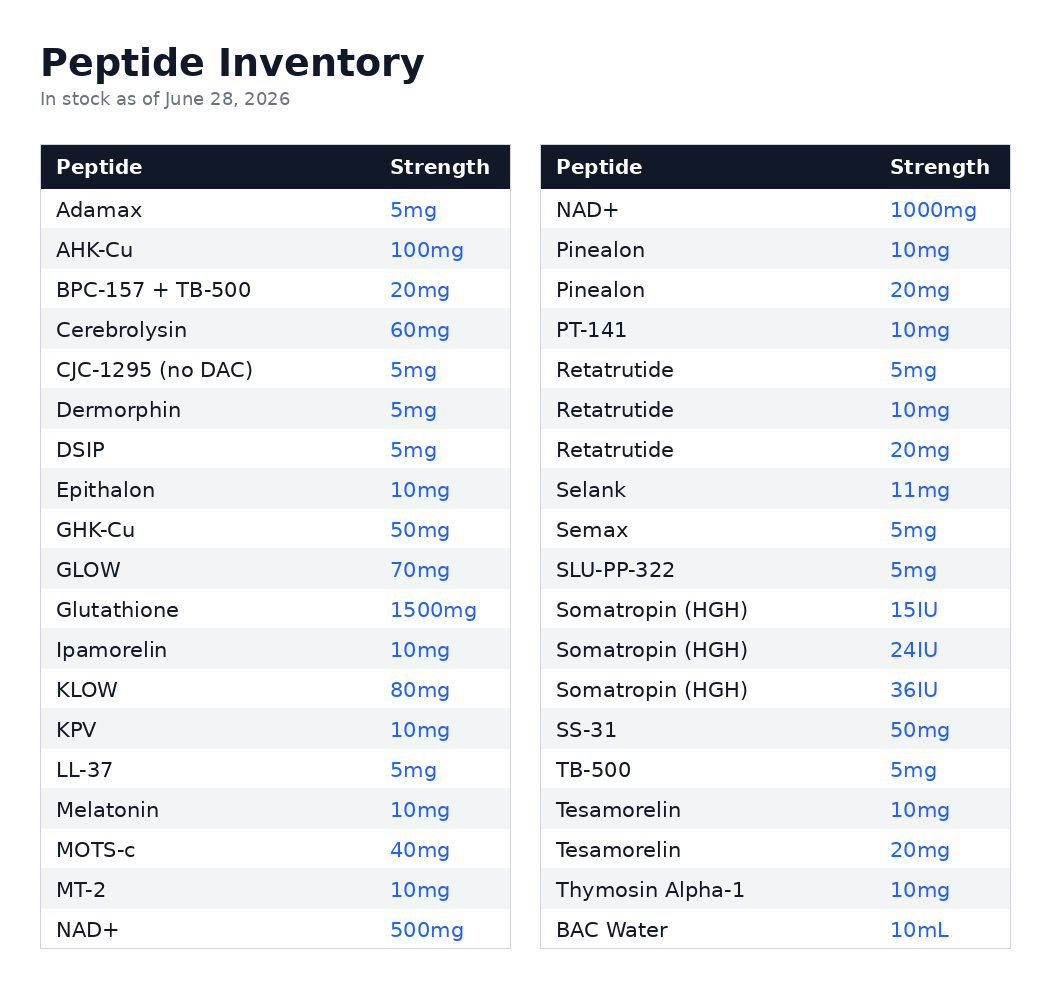
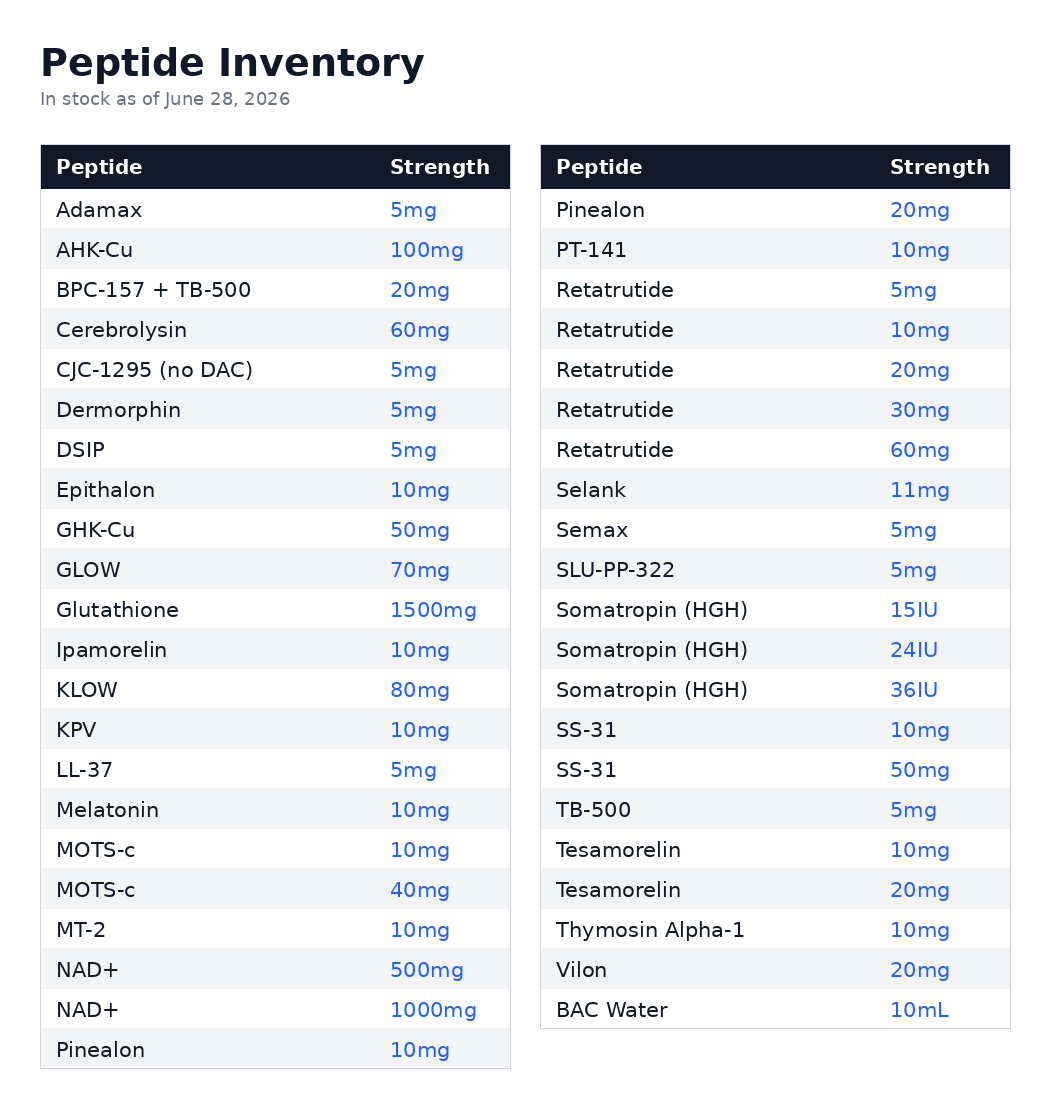
Add MOTS-c 10mg, SS-31 10mg, Retatrutide 30mg/60mg, Vilon 20mg to inventory
Claude-Session: https://claude.ai/code/session_01T9E6sQAwt8JN1LLoqkdtNp

Changed region(s): [[0.0305, 0.0304, 0.4876, 0.9717], [0.5181, 0.1215, 0.9752, 0.9717], [0.8533, 0.3644, 0.9143, 0.9717]]

diff --git a/tools/make_inventory_image.py b/tools/make_inventory_image.py
@@ -20,6 +20,7 @@ ITEMS = [
     ("KPV", "10mg"),
     ("LL-37", "5mg"),
     ("Melatonin", "10mg"),
+    ("MOTS-c", "10mg"),
     ("MOTS-c", "40mg"),
     ("MT-2", "10mg"),
     ("NAD+", "500mg"),
@@ -30,17 +31,21 @@ ITEMS = [
     ("Retatrutide", "5mg"),
     ("Retatrutide", "10mg"),
     ("Retatrutide", "20mg"),
+    ("Retatrutide", "30mg"),
+    ("Retatrutide", "60mg"),
     ("Selank", "11mg"),
     ("Semax", "5mg"),
     ("SLU-PP-322", "5mg"),
     ("Somatropin (HGH)", "15IU"),
     ("Somatropin (HGH)", "24IU"),
     ("Somatropin (HGH)", "36IU"),
+    ("SS-31", "10mg"),
     ("SS-31", "50mg"),
     ("TB-500", "5mg"),
     ("Tesamorelin", "10mg"),
     ("Tesamorelin", "20mg"),
     ("Thymosin Alpha-1", "10mg"),
+    ("Vilon", "20mg"),
     ("BAC Water", "10mL"),
 ]
 
